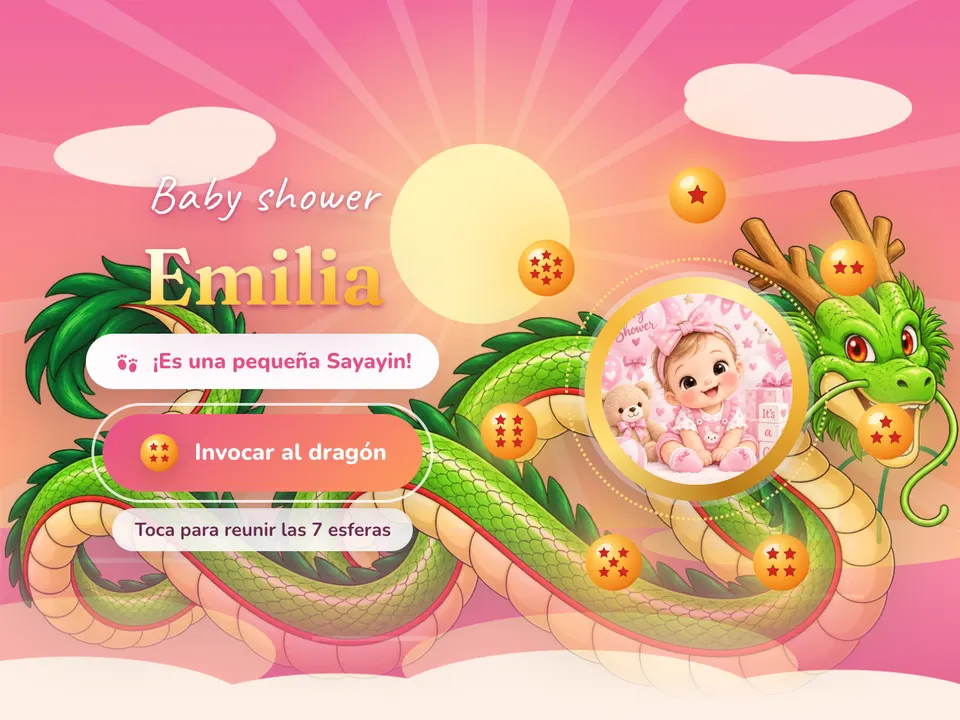
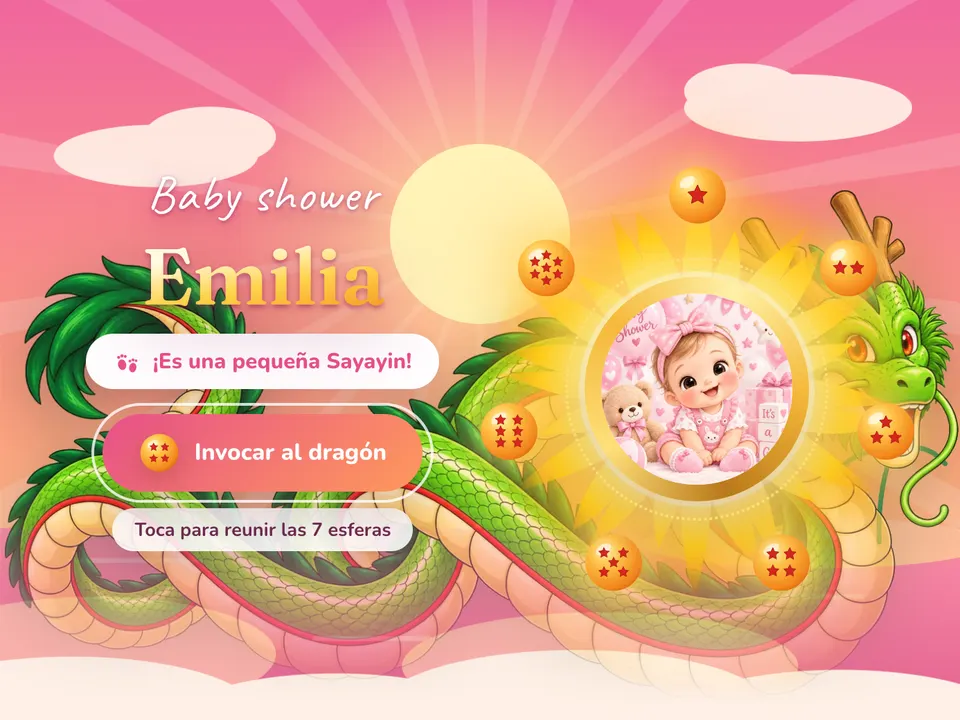
Baby shower dragón: dragón con movimiento, nubes/scouters/esferas y aura Super Saiyayin

Changed region(s): [[0.5, 0.275, 0.9375, 0.825]]

diff --git a/src/templates/baby-shower-dragon/Dragon.jsx b/src/templates/baby-shower-dragon/Dragon.jsx
@@ -35,4 +35,101 @@ export function DragonBall({ stars = 4, className = "" }) {
   );
 }
 
+const CLOUD_BUMPS = [
+  [55, 52, 36], [96, 40, 33], [134, 50, 29], [78, 74, 29], [116, 74, 27], [40, 70, 23], [150, 72, 21],
+];
+const CLOUD_TAIL = "M146 60C166 66 186 58 199 62C201 71 194 75 189 73C195 69 190 66 182 67C168 71 158 75 146 75Z";
+
+/** Nube voladora amarilla (con su colita) para los adornos que flotan. */
+export function Nimbus({ className = "" }) {
+  return (
+    <svg className={`bsd-nimbus ${className}`} viewBox="0 8 204 100" aria-hidden="true">
+      {/* contorno: las mismas formas, más gruesas, debajo */}
+      <g fill="#b8620a" stroke="#b8620a" strokeWidth="5" strokeLinejoin="round">
+        {CLOUD_BUMPS.map(([x, y, r], i) => <circle key={i} cx={x} cy={y} r={r} />)}
+        <path d={CLOUD_TAIL} />
+      </g>
+      {/* sombra: la misma nube un poco más abajo */}
+      <g fill="#dbb300" transform="translate(0 5)">
+        {CLOUD_BUMPS.map(([x, y, r], i) => <circle key={i} cx={x} cy={y} r={r} />)}
+        <path d={CLOUD_TAIL} />
+      </g>
+      <g fill="#fdf27a">
+        {CLOUD_BUMPS.map(([x, y, r], i) => <circle key={i} cx={x} cy={y} r={r} />)}
+        <path d={CLOUD_TAIL} />
+      </g>
+    </svg>
+  );
+}
+
+/** Scouter (medidor de fuerza): visor rosado, cuerpo blanco y botón rojo. */
+export function Scouter({ className = "" }) {
+  return (
+    <svg className={`bsd-scouter ${className}`} viewBox="0 0 100 100" aria-hidden="true">
+      <g strokeLinejoin="round" strokeLinecap="round">
+        {/* visor */}
+        <path d="M4 26 40 32V76L10 72Z" fill="#e58ad8" stroke="#7a3f82" strokeWidth="3" />
+        <path d="M9 32 36 36" stroke="#fff" strokeWidth="2.4" opacity=".7" />
+        <circle cx="19" cy="52" r="6" fill="none" stroke="#fff3a8" strokeWidth="2.2" />
+        <path d="M11 41l4 5H7ZM11 69l4-5H7Z" fill="#fff3a8" />
+        <path d="M27 50h9M27 56h9" stroke="#fff3a8" strokeWidth="2" />
+        {/* cuerpo */}
+        <path d="M40 22C40 12 50 8 62 12L84 22C90 25 92 31 92 38V70C92 80 86 88 74 88L54 88C44 88 40 82 40 74Z" fill="#f4f4f8" stroke="#5c5c6b" strokeWidth="3" />
+        <path d="M66 20 84 28C88 30 89 34 89 40V68C89 78 84 84 74 85L66 85Z" fill="#c6c9d6" />
+        <g stroke="#5c5c6b" strokeWidth="2.4">
+          <path d="M74 36V64M80 38V62" />
+        </g>
+        <rect x="40" y="52" width="9" height="13" rx="2.5" fill="#e0312d" stroke="#5c5c6b" strokeWidth="2.4" />
+        <path d="M46 20C52 16 60 16 64 18" stroke="#fff" strokeWidth="3" opacity=".8" fill="none" />
+      </g>
+    </svg>
+  );
+}
+
+// Llama de aura: se dibuja apuntando hacia arriba desde el radio 50 hasta ~100.
+const FLAMES = [
+  "M-6 -46C-9 -64 -3 -82 1 -106C6 -84 10 -64 6 -46Z",
+  "M-6 -46C-9 -60 -11 -74 -6 -92C2 -80 8 -62 6 -46Z",
+  "M-5 -46C-6 -66 2 -78 7 -98C9 -78 10 -62 5 -46Z",
+  "M-6 -46C-8 -58 -4 -68 -2 -80C4 -70 8 -58 6 -46Z",
+];
+
+/**
+ * Aura dorada de Super Saiyayin: llamas alrededor de la foto que parpadean y un resplandor que late.
+ * Sólo transform/opacity; con `data-calm` se queda quieta.
+ */
+export function Aura({ className = "", tongues = 24 }) {
+  const id = `bsd-aura-${tongues}`;
+  const ring = (offset, scale, tone) =>
+    Array.from({ length: tongues }, (_, i) => (
+      <g key={`${tone}${i}`} transform={`rotate(${(360 / tongues) * i + offset})`}>
+        <path className="bsd-aura__flame" d={FLAMES[(i * 3 + offset) % 4]} fill={`url(#${id}-${tone})`} style={{ "--d": `${((i * 7) % tongues) * 0.11}s`, "--s": scale }} />
+      </g>
+    ));
+  return (
+    <svg className={`bsd-aura ${className}`} viewBox="-110 -110 220 220" aria-hidden="true">
+      <defs>
+        <radialGradient id={`${id}-glow`} cx="0" cy="0" r="1" gradientUnits="userSpaceOnUse" gradientTransform="scale(105)">
+          <stop offset=".45" stopColor="#fff6a8" stopOpacity=".9" />
+          <stop offset=".75" stopColor="#ffc928" stopOpacity=".5" />
+          <stop offset="1" stopColor="#ff9a00" stopOpacity="0" />
+        </radialGradient>
+        <linearGradient id={`${id}-out`} x1="0" y1="-50" x2="0" y2="-100" gradientUnits="userSpaceOnUse">
+          <stop offset="0" stopColor="#fff6a8" />
+          <stop offset=".55" stopColor="#ffd21a" />
+          <stop offset="1" stopColor="#ff9a00" stopOpacity=".05" />
+        </linearGradient>
+        <linearGradient id={`${id}-in`} x1="0" y1="-50" x2="0" y2="-90" gradientUnits="userSpaceOnUse">
+          <stop offset="0" stopColor="#ffffff" />
+          <stop offset=".6" stopColor="#fff08a" />
+          <stop offset="1" stopColor="#ffd21a" stopOpacity=".05" />
+        </linearGradient>
+      </defs>
+      <circle className="bsd-aura__glow" r="105" fill={`url(#${id}-glow)`} />
+      {ring(0, 1, "out")}
+      {ring(360 / tongues / 2, 0.78, "in")}
+    </svg>
+  );
+}
+
 export default DragonBall;

diff --git a/src/templates/baby-shower-dragon/Experience.jsx b/src/templates/baby-shower-dragon/Experience.jsx
@@ -8,7 +8,7 @@ import Particles from "../../experience-kit/Particles.jsx";
 import Photo from "../../experience-kit/Photo.jsx";
 import PhotoViewer from "../../experience-kit/PhotoViewer.jsx";
 import Reveal, { useInView } from "../../experience-kit/Reveal.jsx";
-import { DragonBall } from "./Dragon.jsx";
+import { Aura, DragonBall, Nimbus, Scouter } from "./Dragon.jsx";
 import Icon from "./Icons.jsx";
 import { babyIllustration } from "../baby-shower/media/index.js";
 import dragonSrc from "./media/dragon.webp";
@@ -77,13 +77,20 @@ const SPARKLE = { boy: "#fff8d0", girl: "#fff3c4", surprise: "#fff3c4" };
 
 // Adornos que flotan detrás de la invitación (cantidad fija: nada de nodos sin límite).
 const FLOATIES = [
-  { name: "bottle", top: "10%", left: "5%", size: 54, delay: 0 },
-  { name: "rattle", top: "24%", left: "86%", size: 48, delay: 1.4 },
-  { name: "bear", top: "46%", left: "4%", size: 62, delay: 2.6 },
-  { ball: 6, top: "60%", left: "88%", size: 34, delay: 0.8 },
-  { name: "booties", top: "78%", left: "8%", size: 50, delay: 3.2 },
-  { name: "onesie", top: "88%", left: "72%", size: 46, delay: 1.1 },
+  { art: "nimbus", top: "7%", left: "2%", size: 92, delay: 0 },
+  { ball: 3, top: "13%", left: "86%", size: 40, delay: 1.4 },
+  { art: "scouter", top: "31%", left: "84%", size: 54, delay: 2.2 },
+  { ball: 7, top: "40%", left: "3%", size: 36, delay: 2.6 },
+  { art: "nimbus", top: "54%", left: "76%", size: 100, delay: 0.8 },
+  { art: "scouter", top: "62%", left: "3%", size: 52, delay: 3.2 },
+  { ball: 1, top: "72%", left: "88%", size: 38, delay: 1.1 },
+  { ball: 5, top: "84%", left: "6%", size: 42, delay: 2 },
+  { art: "nimbus", top: "90%", left: "44%", size: 84, delay: 3.6 },
+  { ball: 2, top: "22%", left: "48%", size: 30, delay: 3.8 },
+  { ball: 4, top: "78%", left: "58%", size: 34, delay: 0.4 },
+  { ball: 6, top: "94%", left: "90%", size: 32, delay: 2.9 },
 ];
+
 
 
 // Las 7 esferas de la portada, en círculo alrededor del aro dorado.
@@ -283,11 +290,11 @@ export default function BabyShowerDragonExperience({ content, mode, onEvent, res
           <div className="bsd-floaties" aria-hidden="true">
             {FLOATIES.map((floaty) => (
               <span
-                key={floaty.ball || floaty.name}
-                className={`bsd-floaty${floaty.ball ? " bsd-floaty--ball" : ""}`}
+                key={`${floaty.art || "ball"}-${floaty.ball || ""}-${floaty.top}`}
+                className="bsd-floaty bsd-floaty--art"
                 style={{ top: floaty.top, left: floaty.left, "--size": `${floaty.size}px`, "--delay": `${floaty.delay}s` }}
               >
-                {floaty.ball ? <DragonBall stars={floaty.ball} /> : <Icon name={floaty.name} />}
+                {floaty.ball ? <DragonBall stars={floaty.ball} /> : floaty.art === "nimbus" ? <Nimbus /> : <Scouter />}
               </span>
             ))}
           </div>
@@ -311,6 +318,7 @@ export default function BabyShowerDragonExperience({ content, mode, onEvent, res
             ))}
           </div>
           <div className="bsd-medallion">
+            <Aura className="bsd-medallion__aura" />
             <div className="bsd-medallion__ring">
               <Photo image={cover} sizes="(min-width: 1024px) 32vw, 72vw" loading="eager" className="bsd-medallion__img" />
             </div>
@@ -532,6 +540,7 @@ export default function BabyShowerDragonExperience({ content, mode, onEvent, res
               {copy.thanks}
             </Reveal>
             <Reveal className="bsd-medallion bsd-medallion--small" delay={150}>
+              <Aura className="bsd-medallion__aura" />
               <div className="bsd-medallion__ring">
                 <Photo image={cover} sizes="(min-width: 1024px) 24vw, 52vw" className="bsd-medallion__img" />
               </div>

diff --git a/src/templates/baby-shower-dragon/styles.css b/src/templates/baby-shower-dragon/styles.css
@@ -951,8 +951,8 @@
   filter: drop-shadow(0 6px 10px rgb(120 50 10 / 0.35));
 }
 
-.bsd-floaty--ball {
-  opacity: 0.9;
+.bsd-floaty--art {
+  opacity: 0.92;
 }
 
 .bsd-open__ball {
@@ -1198,4 +1198,74 @@
   font-size: 0.78rem;
   font-weight: 700;
   color: var(--bsd-ink-soft);
+}
+
+.bsd-floaty .bsd-nimbus,
+.bsd-floaty .bsd-scouter,
+.bsd-floaty .bsd-ball {
+  display: block;
+  width: 100%;
+  height: auto;
+}
+
+/* Aura de Super Saiyayin detrás de la foto: llamas doradas que parpadean y un resplandor que late */
+.bsd-medallion__aura {
+  position: absolute;
+  top: 50%;
+  left: 50%;
+  z-index: -1;
+  width: 200%;
+  height: 200%;
+  transform: translate(-50%, -50%);
+  overflow: visible;
+  pointer-events: none;
+  filter: drop-shadow(0 0 14px rgb(255 200 40 / 0.7));
+}
+
+.bsd-aura__flame {
+  transform-origin: 0 0;
+  animation: bsd-flame 0.9s ease-in-out infinite alternate;
+  animation-delay: var(--d, 0s);
+}
+
+.bsd-aura__glow {
+  transform-origin: 0 0;
+  animation: bsd-glow 2.4s ease-in-out infinite;
+}
+
+@keyframes bsd-flame {
+  0% { transform: scale(0.9, 0.86); opacity: 0.85; }
+  100% { transform: scale(1.04, calc(1.12 * var(--s, 1))); opacity: 1; }
+}
+
+@keyframes bsd-glow {
+  0%, 100% { transform: scale(0.94); opacity: 0.8; }
+  50% { transform: scale(1.06); opacity: 1; }
+}
+
+.bsd[data-calm] .bsd-aura__flame,
+.bsd[data-calm] .bsd-aura__glow {
+  animation: none;
+}
+
+/* El dragón se mueve con calma: sube y baja con un poco de zoom (después de aparecer) */
+.bsd[data-lit] .bsd-cover__dragon {
+  animation: bsd-drift 9s ease-in-out 4.6s infinite alternate;
+}
+
+.bsd[data-calm] .bsd-cover__dragon {
+  animation: none;
+}
+
+@keyframes bsd-drift {
+  0% { transform: translateY(0) scale(1); }
+  100% { transform: translateY(-1.6%) scale(1.045); }
+}
+
+@media (prefers-reduced-motion: reduce) {
+  .bsd-aura__flame,
+  .bsd-aura__glow,
+  .bsd[data-lit] .bsd-cover__dragon {
+    animation: none;
+  }
 }

diff --git a/docs/CAMBIOS.md b/docs/CAMBIOS.md
@@ -279,3 +279,9 @@ Verificación: `npm test` 80/80 · `npm run smoke` 5/5 tamaños (sin errores de 
 - En la invitación aparecen dentro de "Mesa de regalos"; el QR se amplía al tocarlo (visor propio, sin mezclarse con el álbum).
 - Demo con 2 QR de ejemplo generados con `qrcode.react` (`baby-shower/media/qr-*.webp`).
 - Al cambiar el schema hay que reiniciar el backend (`touch qralbumback/app.js`).
+
+## Baby shower dragón: movimiento, adornos y aura
+
+- El dragón sube y baja con un poco de zoom (9 s, suave) una vez que aparece; sigue apareciendo con desvanecido a los ~2 s de invocar.
+- Adornos que flotan: nubes voladoras (Nimbus), scouters y 7 esferas (`Dragon.jsx`, todo SVG propio), en lugar de biberón/osito.
+- Aura de Super Saiyayin (`Aura`) detrás de la foto de la portada y de la de "Gracias": llamas doradas que parpadean y resplandor que late. Sólo transform/opacity; quieta con `data-calm` o movimiento reducido.
